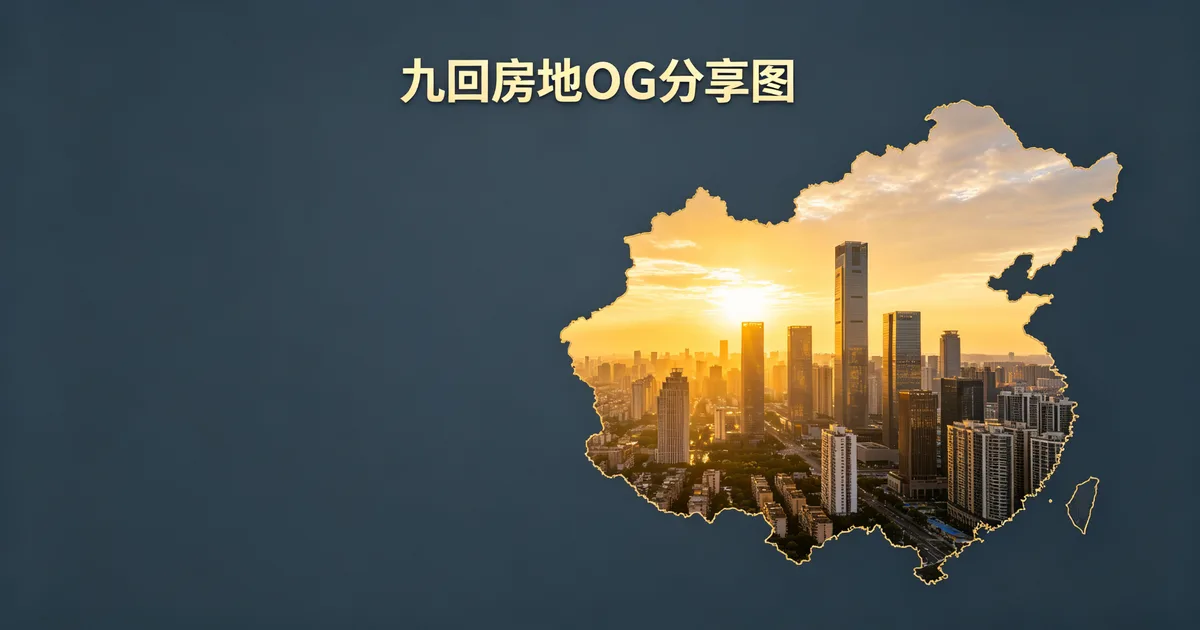
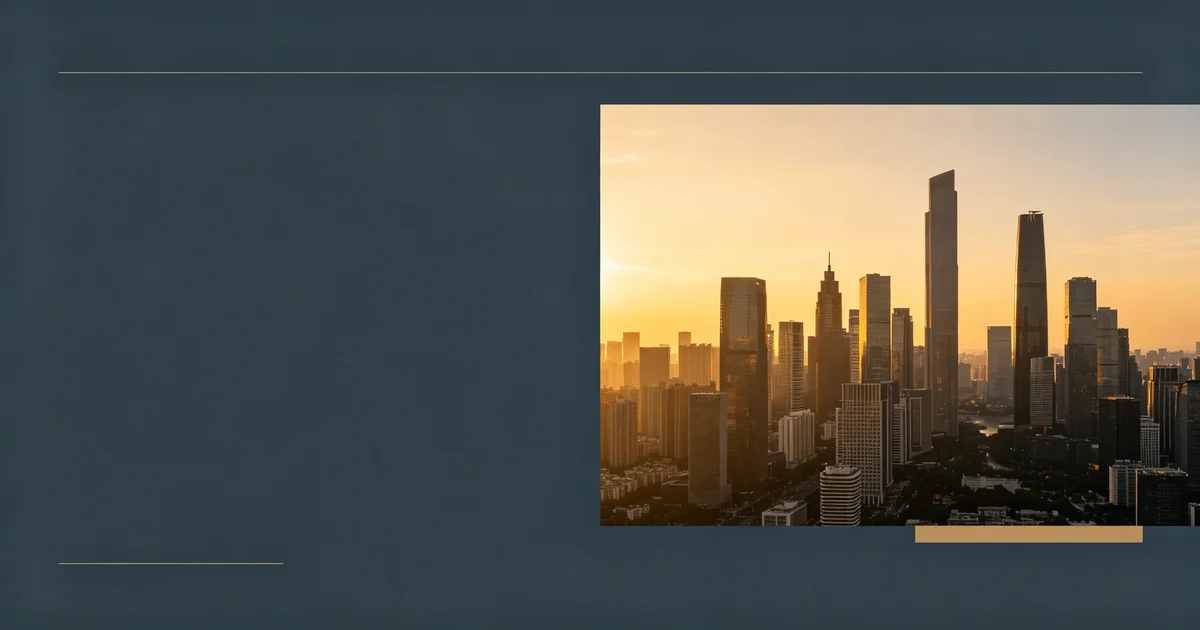
feat: iamsusi工作經歷M&A調整+og-dashboard換圖

diff --git a/jinyong-psychology/iamsusi.html b/jinyong-psychology/iamsusi.html
@@ -501,10 +501,10 @@ certs.forEach((c,i)=>{
 // ===== 經歷資料 =====
 const experiences = [
   {company:'九回房地',role:'執行長 / 店東',desc:'創立不動產資訊平台，整合AI、金融與區域分析，提供購屋與投資者專業參考。'},
-  {company:'新光金控',role:'董事長辦公室綜合企劃處 / 資深經理',desc:'負責金控層級策略規劃、跨子公司整合專案與董事會議題管理。'},
-  {company:'中國信託人壽',role:'策略發展部 & 業務推廣部 / 資深經理',desc:'主導公司策略轉型、業務渠道創新與大型專案推動。'},
-  {company:'Manulife 宏利人壽',role:'保經代通路部 / 經理',desc:'管理保經代通路，開拓業務夥伴關係與通路績效優化。'},
-  {company:'ING → 富邦人壽',role:'策略規劃暨專案管理部 / PMO專案經理',desc:'經歷ING與富邦併購整合，主導多項系統轉換與組織變革專案。'},
+  {company:'新光金控',role:'董事長辦公室綜合企劃處 / 資深經理',desc:'主要負責企業併購M&A專案。負責金控層級策略規劃、跨子公司整合專案與董事會議題管理。'},
+  {company:'中國信託人壽',role:'策略發展部 & 業務推廣部 / 資深經理',desc:'主要負責企業併購M&A專案。主導公司策略轉型、業務渠道創新與大型專案推動。'},
+  {company:'Manulife 宏利人壽',role:'保經代通路部 / 經理',desc:'主要負責企業併購M&A專案。管理保經代通路，開拓業務夥伴關係與通路績效優化。'},
+  {company:'ING → 富邦人壽',role:'策略規劃暨專案管理部 / PMO專案經理',desc:'主要負責企業併購M&A專案。經歷ING與富邦併購整合，主導多項系統轉換與組織變革專案。'},
   {company:'Schering AG → 拜耳先靈製藥',role:'資訊部 / 經理',desc:'管理製藥業IT基礎架構，導入企業級系統與數位化流程。'},
   {company:'台灣東洋藥品',role:'資訊部 / 專案經理',desc:'導入PLM產品生命週期管理與e-Clinical臨床實驗系統。'},
   {company:'資策會',role:'IT工程師 / 專案管理 PM',desc:'網路資料庫專班結業，進入IT產業，累積程式開發與專案管理基礎。'},
